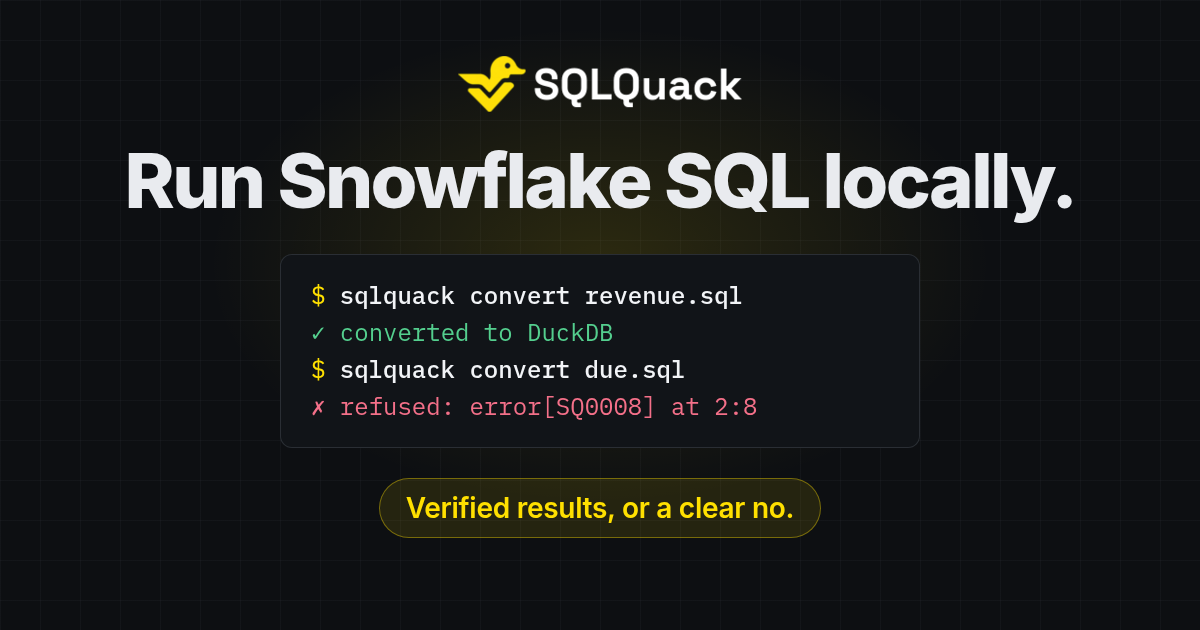
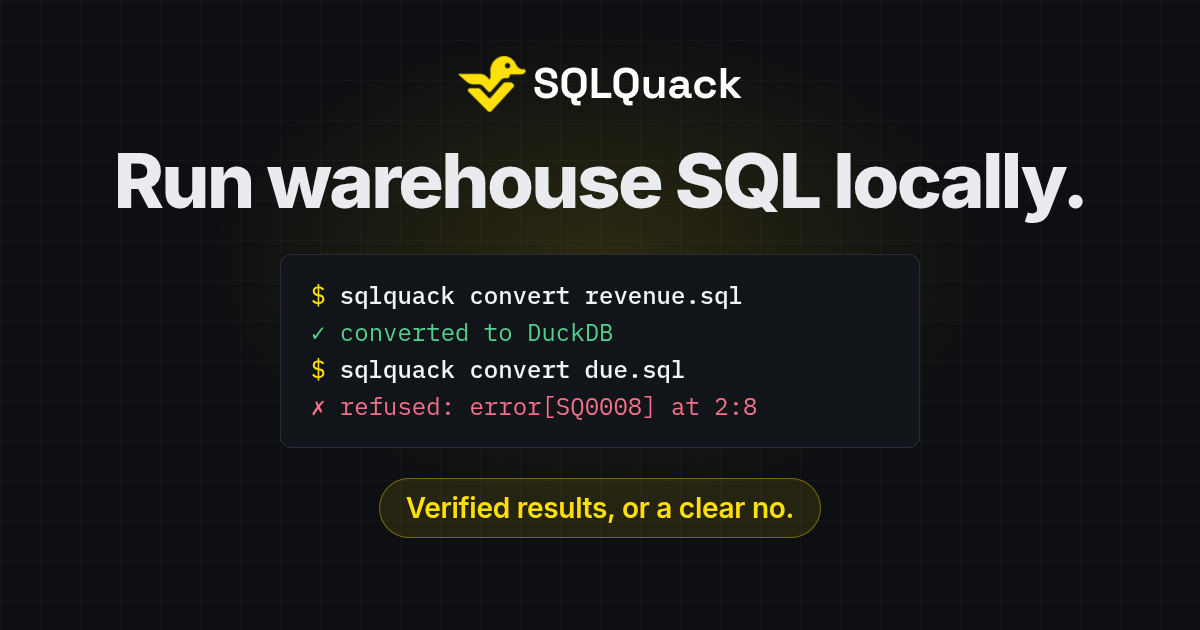
website: lead with warehouse SQL and set the wordmark in Space Grotesk
The headline now reads "Run warehouse SQL locally." on the home page,
in the titles of the home page and playground, and in the social
preview image. The short descriptions are generic in the same way. The
body copy still says Snowflake where it describes what works today, and
a dialect line under the tagline lists the one source dialect the CLI
and playground expose: Snowflake, with parse, check and translate to
DuckDB.

The SQLQuack wordmark in the header logos and the preview image now
uses Space Grotesk Bold, the SQLStack wordmark font. Its OFL licence
sits with the other font licences.

Changed region(s): [[0.0925, 0.2413, 0.925, 0.3619], [0.4317, 0.0905, 0.6167, 0.181]]

diff --git a/website/public/index.html b/website/public/index.html
@@ -3,18 +3,18 @@
 	<head>
 		<meta charset="utf-8" />
 		<meta name="viewport" content="width=device-width, initial-scale=1" />
-		<title>SQLQuack · Run Snowflake SQL locally. Verified results, or a clear no</title>
+		<title>SQLQuack · Run warehouse SQL locally. Verified results, or a clear no</title>
 		<meta
 			name="description"
-			content="SQLQuack is a Snowflake SQL compiler written in Rust. It parses Snowflake SQL, reports what Snowflake would reject with rustc-style diagnostics, and translates the rest into DuckDB SQL, or refuses it with a code, a span and a reason."
+			content="A warehouse SQL compiler in Rust: parse, check and translate to DuckDB, or refuse with a precise reason."
 		/>
-		<meta property="og:title" content="SQLQuack · Run Snowflake SQL locally. Verified results, or a clear no" />
+		<meta property="og:title" content="SQLQuack · Run warehouse SQL locally. Verified results, or a clear no" />
 		<meta property="og:description" content="A SQLGlot alternative in Rust that would rather reject your SQL than return the wrong answer." />
 		<meta property="og:type" content="website" />
 		<meta property="og:image" content="https://sqlquack.io/assets/og-sqlquack.png" />
 		<meta property="og:image:width" content="1200" />
 		<meta property="og:image:height" content="630" />
-		<meta property="og:image:alt" content="SQLQuack: a Snowflake SQL compiler that translates to DuckDB, or refuses to guess." />
+		<meta property="og:image:alt" content="SQLQuack: a warehouse SQL compiler that translates to DuckDB, or refuses to guess." />
 		<meta name="twitter:card" content="summary_large_image" />
 		<meta name="twitter:image" content="https://sqlquack.io/assets/og-sqlquack.png" />
 		<link rel="icon" type="image/png" sizes="128x128" href="/favicon.png" />
@@ -57,8 +57,9 @@
 			<div class="hero wrap">
 				<div class="hero-text">
 					<p class="eyebrow">Rust-powered · Free and open source · Apache-2.0</p>
-					<h1>Run Snowflake SQL locally.</h1>
+					<h1>Run warehouse SQL locally.</h1>
 					<p class="tagline">Verified results, or a clear no.</p>
+					<p class="dialects"><span class="dialects-label">Dialects today</span> <span class="dialect">Snowflake</span> parse · check · translate to DuckDB</p>
 					<p class="lede">
 						SQLQuack converts only where rules checked against recorded Snowflake results cover the types
 						involved. Everything else is refused, with the exact span and the reason.

diff --git a/website/public/playground/index.html b/website/public/playground/index.html
@@ -3,18 +3,18 @@
 	<head>
 		<meta charset="utf-8" />
 		<meta name="viewport" content="width=device-width, initial-scale=1" />
-		<title>Playground · SQLQuack</title>
+		<title>Playground · SQLQuack · Run warehouse SQL locally</title>
 		<meta
 			name="description"
-			content="SQLQuack is a Snowflake SQL compiler written in Rust. It parses Snowflake SQL, reports what Snowflake would reject with rustc-style diagnostics, and translates the rest into DuckDB SQL, or refuses it with a code, a span and a reason."
+			content="A warehouse SQL compiler in Rust: parse, check and translate to DuckDB, or refuse with a precise reason."
 		/>
-		<meta property="og:title" content="SQLQuack · Snowflake SQL on DuckDB, or a clear no" />
+		<meta property="og:title" content="SQLQuack Playground · Run warehouse SQL locally. Verified results, or a clear no" />
 		<meta property="og:description" content="A SQLGlot alternative in Rust that would rather reject your SQL than return the wrong answer." />
 		<meta property="og:type" content="website" />
 		<meta property="og:image" content="https://sqlquack.io/assets/og-sqlquack.png" />
 		<meta property="og:image:width" content="1200" />
 		<meta property="og:image:height" content="630" />
-		<meta property="og:image:alt" content="SQLQuack: a Snowflake SQL compiler that translates to DuckDB, or refuses to guess." />
+		<meta property="og:image:alt" content="SQLQuack: a warehouse SQL compiler that translates to DuckDB, or refuses to guess." />
 		<meta name="twitter:card" content="summary_large_image" />
 		<meta name="twitter:image" content="https://sqlquack.io/assets/og-sqlquack.png" />
 		<link rel="icon" type="image/png" sizes="128x128" href="/favicon.png" />

diff --git a/website/public/styles.css b/website/public/styles.css
@@ -291,6 +291,33 @@ pre {
 	letter-spacing: -0.015em;
 }
 
+.dialects {
+	display: flex;
+	flex-wrap: wrap;
+	align-items: center;
+	gap: 8px 10px;
+	margin: 16px 0 0;
+	color: var(--muted-foreground);
+	font-size: 15px;
+}
+
+.dialects-label {
+	color: var(--faint);
+	font-size: 13px;
+	font-weight: 550;
+	letter-spacing: 0.04em;
+	text-transform: uppercase;
+}
+
+.dialect {
+	padding: 2px 10px;
+	border: 1px solid var(--inner-line);
+	border-radius: 999px;
+	background: var(--accent-soft);
+	color: var(--foreground);
+	font-weight: 550;
+}
+
 .lede {
 	max-width: 62ch;
 	margin: 20px 0 0;
